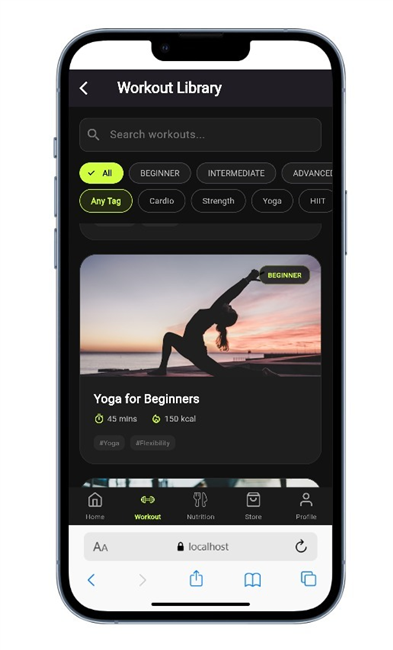
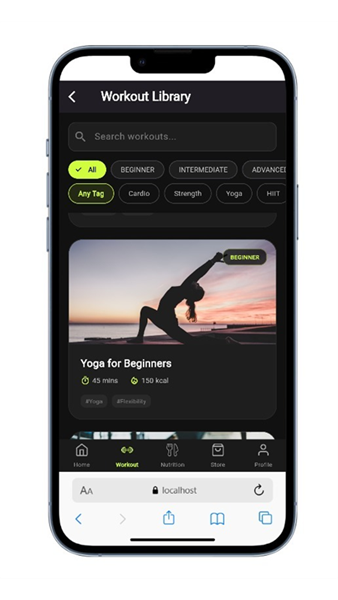
docs: delete Role Selection, normalize all screenshots to uniform 450x800 dimensions, and update 2-column showcase grid

diff --git a/README.md b/README.md
@@ -61,17 +61,21 @@
 
 ### Coach Experience
 
-| Coach Dashboard | Coach Profile | Client Management |
-| :---: | :---: | :---: |
-| ![Coach Dashboard](./screenshots/coach/01_coach_dashboard.png) | ![Coach Profile](./screenshots/coach/02_coach_profile.png) | ![Client Management](./screenshots/coach/03_client_management.png) |
-
-| Direct Client Chat | Role Selection |
+| Coach Dashboard | Coach Profile |
 | :---: | :---: |
-| ![Client Chat](./screenshots/coach/05_client_coach_chat.png) | ![Role Selection](./screenshots/coach/04_role_selection.png) |
+| ![Coach Dashboard](./screenshots/coach/01_coach_dashboard.png) | ![Coach Profile](./screenshots/coach/02_coach_profile.png) |
+
+| Client Management | Direct Client Chat |
+| :---: | :---: |
+| ![Client Management](./screenshots/coach/03_client_management.png) | ![Direct Client Chat](./screenshots/coach/05_client_coach_chat.png) |
 
 ---
 
 ### Client Experience
+
+| Client Profile | AI Fitness Coach Chat |
+| :---: | :---: |
+| ![Client Profile](./screenshots/client/01_client_profile.png) | ![AI Coach Chat](./screenshots/client/05_ai_coach_chat.png) |
 
 | Workout Library | Nutrition Library |
 | :---: | :---: |
@@ -80,10 +84,6 @@
 | Gym Store Product | Shopping Cart & Checkout |
 | :---: | :---: |
 | ![Product Detail](./screenshots/client/07_product_detail.png) | ![My Cart](./screenshots/client/06_shopping_cart.png) |
-
-| Client Profile | AI Fitness Coach Chat |
-| :---: | :---: |
-| ![Client Profile](./screenshots/client/01_client_profile.png) | ![AI Coach Chat](./screenshots/client/05_ai_coach_chat.png) |
 
 ---
 
